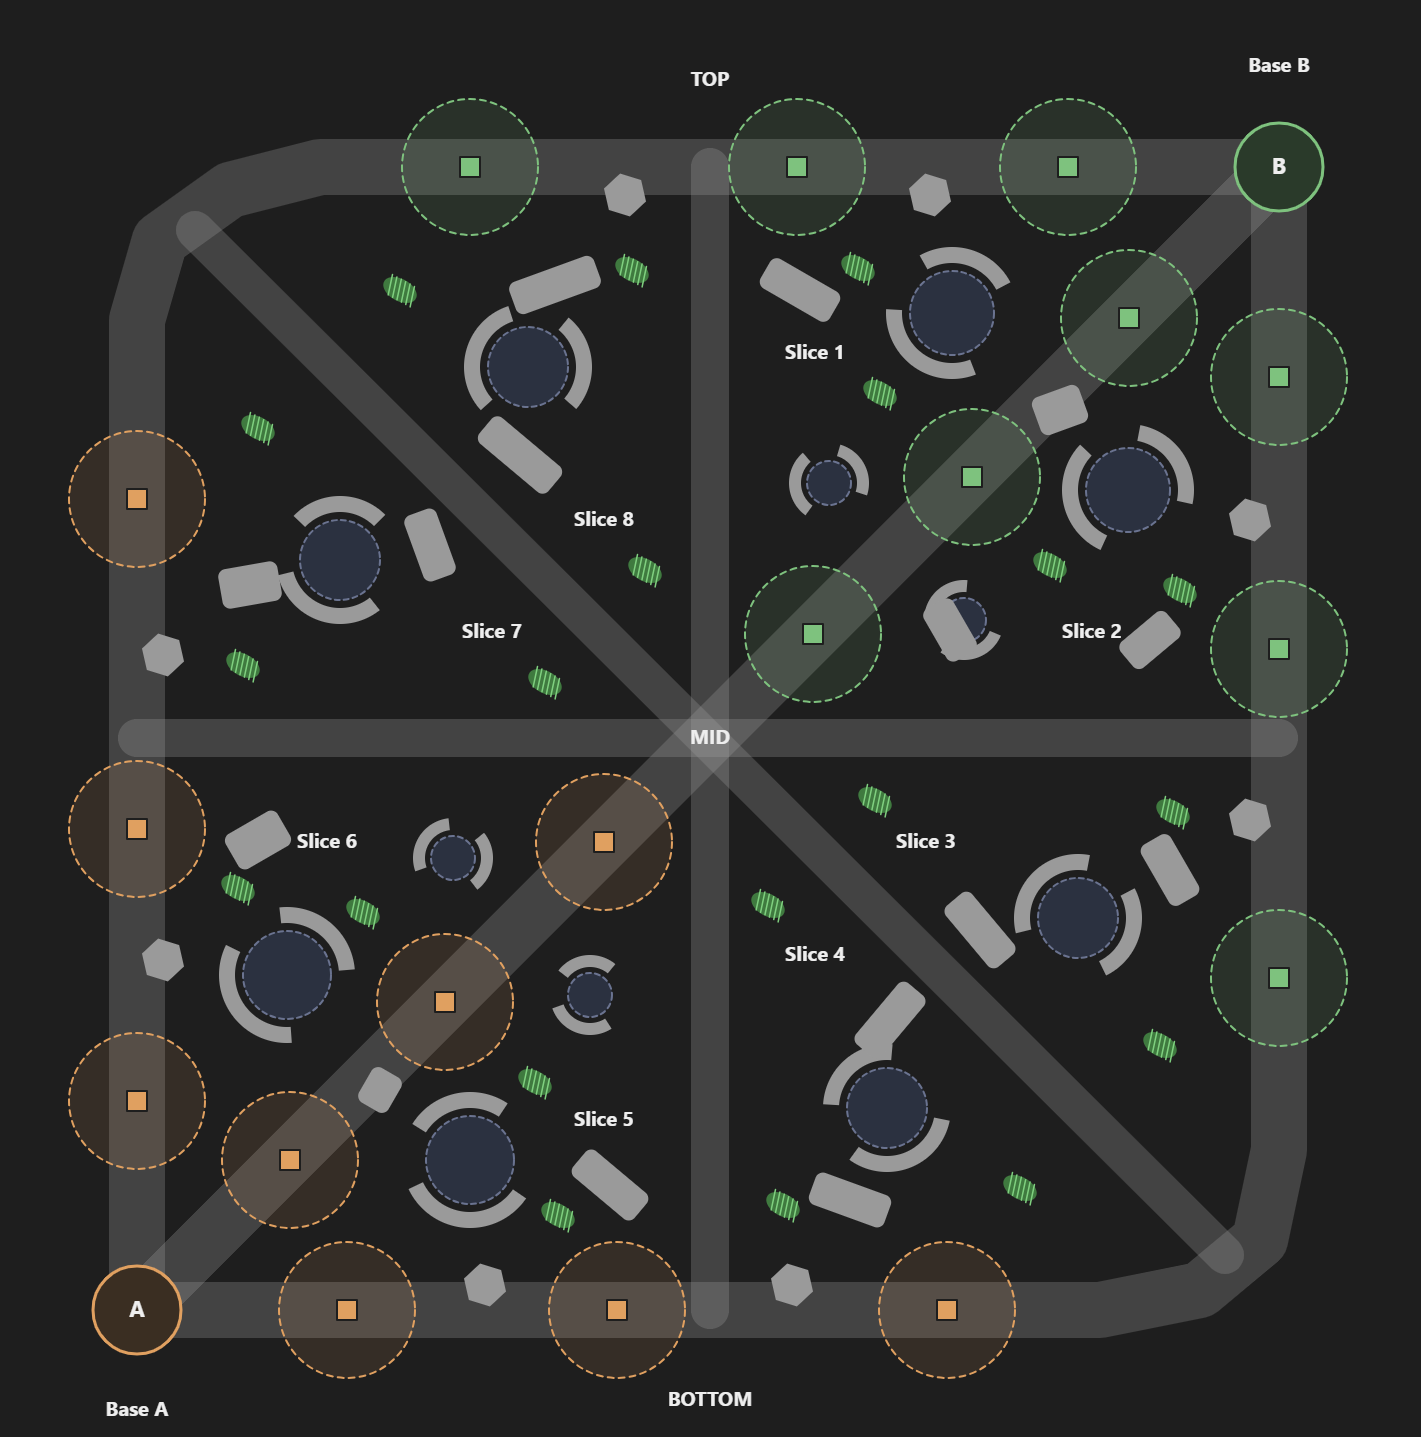
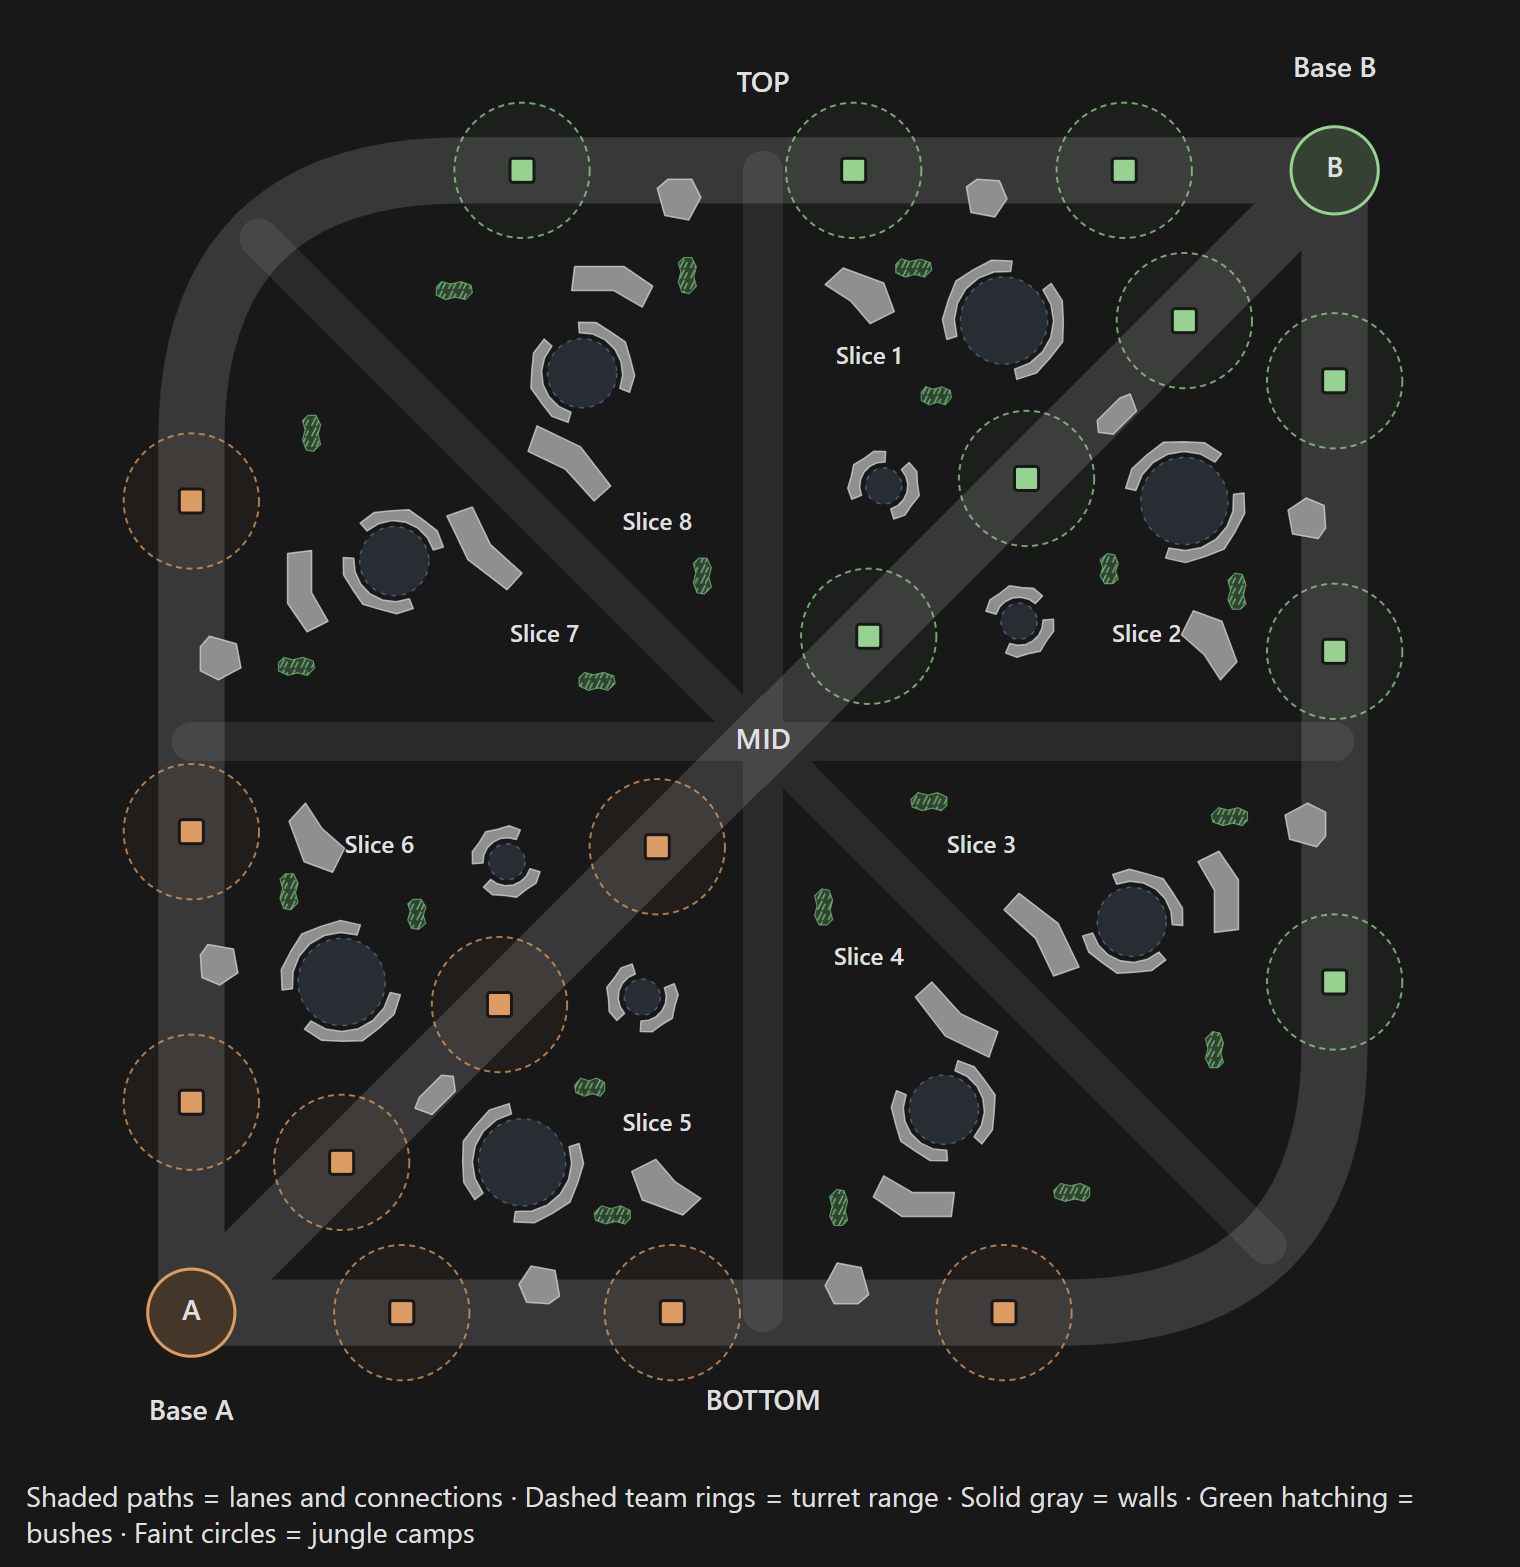
Draft A: extract the drawing into exact coordinates and render from data
extract.py reads draft-a-original.png by colour (lanes, connections, walls,
camps, bushes, turrets with measured range, bases) into draft-a.json;
render.py redraws it. Walls are classified as wrapping a camp or loose,
so 'remove the loose walls' is a flag, not a paint job (v2 image).

diff --git a/docs/drafts/extract.py b/docs/drafts/extract.py
@@ -1,0 +1,123 @@
+"""Read the user's drawing (draft-a-original.png) and turn every element into
+exact coordinates (draft-a.json). Nothing is redrawn by hand: walls, camps,
+bushes, lanes and turrets are found by their colour and stored as polygons or
+circles, so later edits are edits to numbers."""
+import json, math, cv2, numpy as np
+from PIL import Image
+
+SRC = 'docs/drafts/draft-a-original.png'
+im = np.array(Image.open(SRC).convert('RGB')).astype(int)
+H, W, _ = im.shape
+r, g, b = im[..., 0], im[..., 1], im[..., 2]
+gray = (abs(r - g) <= 8) & (abs(g - b) <= 8)
+v = (r + g + b) // 3
+
+def regions(mask, min_area):
+    m = (mask.astype(np.uint8) * 255)
+    cs, hier = cv2.findContours(m, cv2.RETR_CCOMP, cv2.CHAIN_APPROX_SIMPLE)
+    out = []
+    if hier is None: return out
+    hier = hier[0]
+    for i, c in enumerate(cs):
+        if hier[i][3] != -1 or cv2.contourArea(c) < min_area: continue
+        holes = [cv2.approxPolyDP(cs[j], 1.5, True).reshape(-1, 2).tolist() for j in range(len(cs)) if hier[j][3] == i and cv2.contourArea(cs[j]) > 50]
+        out.append({'outer': cv2.approxPolyDP(c, 1.5, True).reshape(-1, 2).tolist(), 'holes': holes})
+    return out
+
+def contours(mask, min_area):
+    m = (mask.astype(np.uint8) * 255)
+    cs, _ = cv2.findContours(m, cv2.RETR_EXTERNAL, cv2.CHAIN_APPROX_SIMPLE)
+    out = []
+    for c in cs:
+        a = cv2.contourArea(c)
+        if a < min_area: continue
+        poly = cv2.approxPolyDP(c, 1.5, True).reshape(-1, 2).tolist()
+        M = cv2.moments(c); cx, cy = M['m10'] / M['m00'], M['m01'] / M['m00']
+        out.append({'poly': poly, 'cx': round(cx, 1), 'cy': round(cy, 1), 'area': int(a)})
+    return out
+
+# camps: dark blue-gray discs
+camp_mask = (abs(r - 40) <= 6) & (abs(g - 44) <= 6) & (abs(b - 51) <= 6)
+camps = []
+for c in contours(camp_mask, 300):
+    (x, y), rad = cv2.minEnclosingCircle(np.array(c['poly'], dtype=np.float32))
+    camps.append({'x': round(x, 1), 'y': round(y, 1), 'r': round(rad, 1), 'big': rad > 32})
+
+# walls: solid light gray
+wall_mask = gray & (abs(v - 143) <= 28)
+walls = []
+for c in contours(wall_mask, 120):
+    pts = np.array(c['poly'], dtype=float)
+    # an arc that SURROUNDS a camp keeps a near-constant distance from its centre,
+    # just outside the disc; a slab that merely sits nearby does not
+    surrounds = False
+    for cp in camps:
+        dd = np.hypot(pts[:, 0] - cp['x'], pts[:, 1] - cp['y'])
+        inner, outer = dd.min(), dd.max()
+        if cp['r'] + 2 <= inner <= cp['r'] + 40 and outer - inner <= 42:
+            surrounds = True; break
+    walls.append({**c, 'nearCamp': surrounds})
+
+# bushes: green hatch
+bush_mask = (g > r + 10) & (g > b + 10) & (v > 30) & (v < 140)
+bushes = []
+for c in contours(cv2.morphologyEx(bush_mask.astype(np.uint8), cv2.MORPH_CLOSE, np.ones((7, 7), np.uint8)) > 0, 150):
+    if c['area'] > 2500: continue          # the team base discs are green/brown too
+    bushes.append({'x': c['cx'], 'y': c['cy'], 'poly': c['poly']})
+
+# turrets: saturated squares; range = distance to the dashed ring of the same hue
+def turrets(color, hue_ok):
+    out = []
+    mask = (abs(r - color[0]) <= 30) & (abs(g - color[1]) <= 30) & (abs(b - color[2]) <= 30)
+    for c in contours(mask, 200):
+        cx, cy = c['cx'], c['cy']
+        dists = []
+        for k in range(16):
+            a = k / 16 * 2 * math.pi
+            for dd in range(40, 130):
+                x, y = int(cx + math.cos(a) * dd), int(cy + math.sin(a) * dd)
+                if 0 <= x < W and 0 <= y < H and hue_ok(im[y, x]):
+                    dists.append(dd); break
+        rad = float(np.median(dists)) if dists else 0
+        if rad > 55: out.append({'x': cx, 'y': cy, 'range': round(rad, 1)})
+    return out
+orange = lambda p: p[0] - p[2] > 40 and p[0] > 90 and abs(p[0] - p[1]) > 15
+green = lambda p: p[1] - p[0] > 25 and p[1] - p[2] > 25 and p[1] > 90
+towers = {'A': turrets((221, 157, 98), orange), 'B': turrets((151, 210, 145), green)}
+
+# bases: the two large team discs
+def base(color, near):
+    mask = (abs(r - color[0]) <= 10) & (abs(g - color[1]) <= 10) & (abs(b - color[2]) <= 10)
+    cs = contours(mask, 800)
+    c = min(cs, key=lambda q: math.hypot(q['cx'] - near[0], q['cy'] - near[1]))
+    (x, y), rad = cv2.minEnclosingCircle(np.array(c['poly'], dtype=np.float32))
+    return {'x': round(x, 1), 'y': round(y, 1), 'r': round(rad, 1)}
+bases = {'A': base((68, 54, 41), (190, 1312)), 'B': base((52, 65, 51), (1335, 170))}
+
+# lanes and connections: mid-gray bands (also where they pass through range tints)
+lane_mask = gray & (v >= 55) & (v <= 80)
+lane_mask |= (abs(r - 63) <= 6) & (abs(g - 60) <= 6) & (abs(b - 58) <= 6)
+lane_mask = cv2.morphologyEx(lane_mask.astype(np.uint8), cv2.MORPH_CLOSE, np.ones((9, 9), np.uint8)) > 0
+near_lane = cv2.dilate(lane_mask.astype(np.uint8), np.ones((41, 41), np.uint8)) > 0
+loose = np.zeros((H, W), np.uint8)
+for w in walls:
+    if not w['nearCamp']: cv2.fillPoly(loose, [np.array(w['poly'], dtype=np.int32)], 1)
+loose = cv2.dilate(loose, np.ones((9, 9), np.uint8)) > 0
+lane_mask |= loose & near_lane
+lanes = regions(lane_mask, 3000)
+conn_mask = (abs(r - g) <= 6) & (abs(g - b) <= 6) & (v >= 36) & (v <= 50)
+# open first: the anti-aliased rim of every lane is this gray too, and as a
+# closed ring it would swallow the roads inside it as nested contours
+conn_mask = cv2.morphologyEx(conn_mask.astype(np.uint8), cv2.MORPH_OPEN, np.ones((5, 5), np.uint8))
+conn_mask = cv2.morphologyEx(conn_mask, cv2.MORPH_CLOSE, np.ones((9, 9), np.uint8)) > 0
+connections = [{'outer': c['poly'], 'holes': []} for c in contours(conn_mask, 1500)]
+
+labels = [['TOP', 762, 82], ['BOTTOM', 762, 1400], ['MID', 762, 740], ['Base A', 190, 1410], ['Base B', 1335, 68],
+          ['Slice 1', 868, 355], ['Slice 2', 1145, 632], ['Slice 3', 982, 845], ['Slice 4', 868, 957],
+          ['Slice 5', 658, 1122], ['Slice 6', 380, 845], ['Slice 7', 545, 632], ['Slice 8', 658, 520]]
+data = {'size': [W, H], 'bases': bases, 'lanes': lanes, 'connections': connections, 'towers': towers,
+        'camps': camps, 'walls': walls, 'bushes': bushes, 'labels': labels}
+json.dump(data, open('docs/drafts/draft-a.json', 'w'))
+print('camps', len(camps), 'big', sum(c['big'] for c in camps), '| walls', len(walls), 'near camps', sum(w['nearCamp'] for w in walls),
+      '| bushes', len(bushes), '| towers', {k: len(v) for k, v in towers.items()}, 'ranges', sorted({t['range'] for t in towers['A'] + towers['B']}),
+      '| lanes', len(lanes), 'connections', len(connections), '| bases', bases)

diff --git a/docs/drafts/render.py b/docs/drafts/render.py
@@ -1,0 +1,62 @@
+"""Render draft-a.json exactly, optionally hiding the loose walls.
+usage: python docs/drafts/render.py [--camp-walls-only] out.png"""
+import json, math, sys
+from PIL import Image, ImageDraw, ImageFont
+
+d = json.load(open('docs/drafts/draft-a.json'))
+camp_walls_only = '--camp-walls-only' in sys.argv
+out = [a for a in sys.argv[1:] if not a.startswith('--')][0]
+W, H = d['size']
+img = Image.new('RGB', (W, H), (24, 24, 24))
+dr = ImageDraw.Draw(img, 'RGBA')
+BG = (24, 24, 24)
+
+def region(regs, col):
+    for r in regs:
+        dr.polygon([tuple(p) for p in r['outer']], fill=col)
+        for h in r['holes']: dr.polygon([tuple(p) for p in h], fill=BG)
+
+region(d['lanes'], (71, 71, 71))        # lanes first: their holes are painted background
+region(d['connections'], (42, 42, 42))  # then the roads, so the holes do not erase them
+TEAM = {'A': (221, 157, 98), 'B': (151, 210, 145)}
+for team, ts in d['towers'].items():
+    col = TEAM[team]
+    for t in ts:
+        x, y, R = t['x'], t['y'], t['range']
+        dr.ellipse([x - R, y - R, x + R, y + R], fill=col + (28,))
+        n = 40
+        for k in range(n):
+            if k % 2: continue
+            a0, a1 = k / n * 360, (k + 1) / n * 360
+            dr.arc([x - R, y - R, x + R, y + R], a0, a1, fill=col + (200,), width=2)
+for team, b in d['bases'].items():
+    fill = (68, 54, 41) if team == 'A' else (52, 65, 51)
+    dr.ellipse([b['x'] - b['r'], b['y'] - b['r'], b['x'] + b['r'], b['y'] + b['r']], fill=fill, outline=TEAM[team], width=3)
+for c in d['camps']:
+    x, y, R = c['x'], c['y'], c['r']
+    dr.ellipse([x - R, y - R, x + R, y + R], fill=(40, 44, 51))
+    n = 36
+    for k in range(0, n, 2):
+        dr.arc([x - R + 2, y - R + 2, x + R - 2, y + R - 2], k / n * 360, (k + 1) / n * 360, fill=(110, 120, 150), width=2)
+for w in d['walls']:
+    if camp_walls_only and not w['nearCamp']: continue
+    dr.polygon([tuple(p) for p in w['poly']], fill=(143, 143, 143))
+for bsh in d['bushes']:
+    poly = [tuple(p) for p in bsh['poly']]
+    dr.polygon(poly, fill=(48, 66, 48))
+    xs = [p[0] for p in poly]; ys = [p[1] for p in poly]
+    x0, x1, y0, y1 = min(xs), max(xs), min(ys), max(ys)
+    for xx in range(int(x0), int(x1), 6):
+        dr.line([xx, y0, xx + 6, y1], fill=(120, 190, 110), width=1)
+    dr.polygon(poly, outline=(90, 150, 90))
+for team, ts in d['towers'].items():
+    for t in ts:
+        dr.rectangle([t['x'] - 10, t['y'] - 10, t['x'] + 10, t['y'] + 10], fill=TEAM[team], outline=(24, 24, 24), width=2)
+try: font = ImageFont.truetype('segoeuib.ttf', 22)
+except Exception: font = ImageFont.load_default()
+for text, x, y in d['labels']:
+    dr.text((x, y), text, fill=(238, 238, 238), font=font, anchor='mm')
+for team, b in d['bases'].items():
+    dr.text((b['x'], b['y']), team, fill=(238, 238, 238), font=font, anchor='mm')
+img.save(out)
+print('wrote', out)
